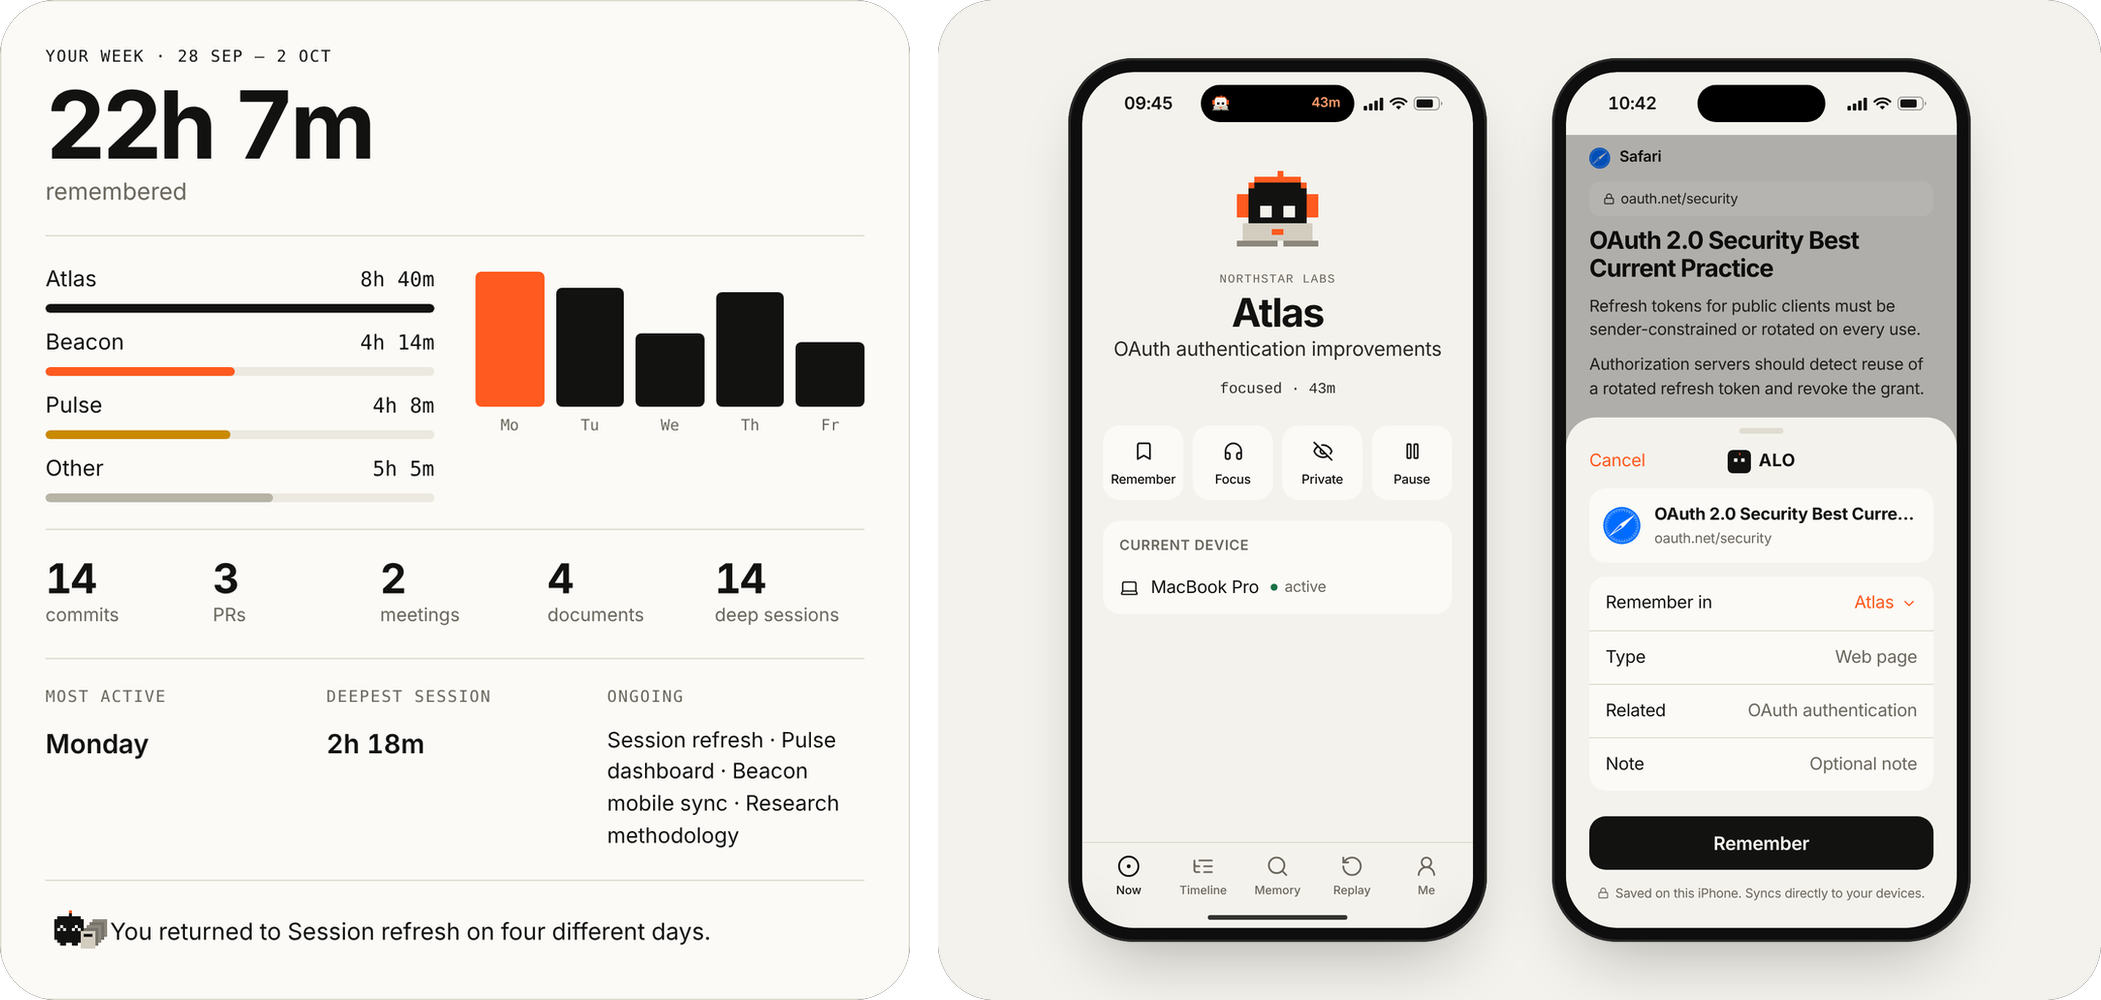
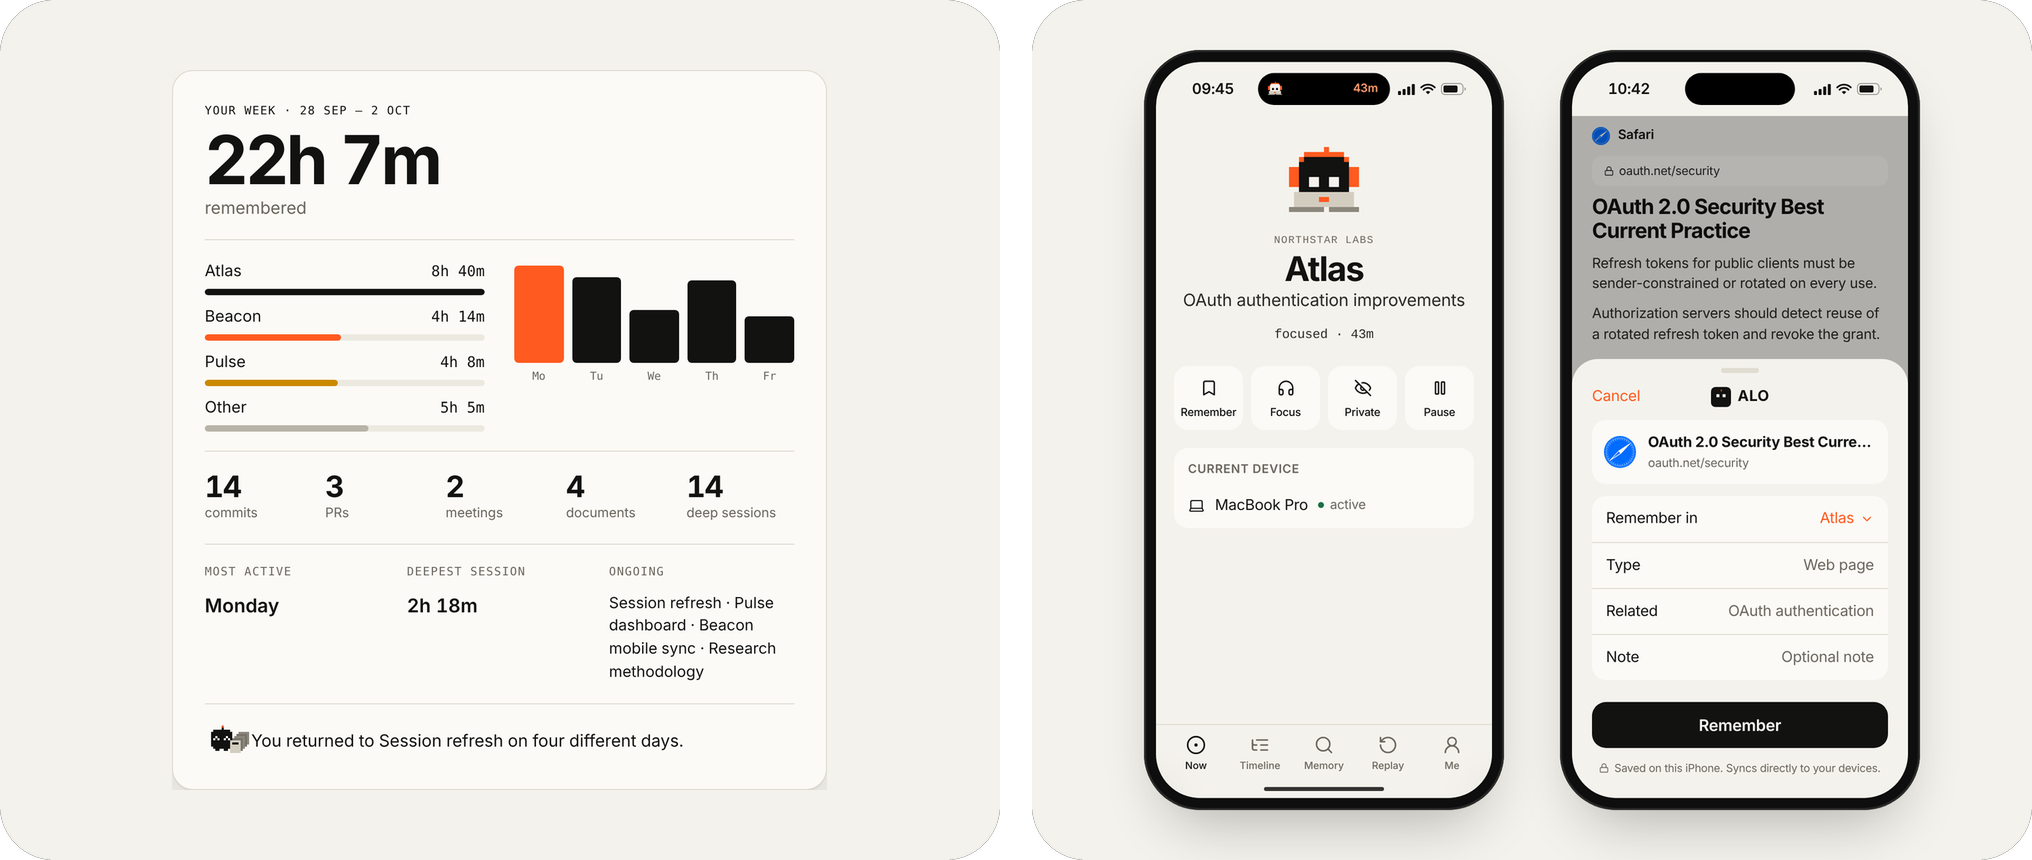
Move to al0.io and tidy the ALO in use screenshots

diff --git a/README.md b/README.md
@@ -10,7 +10,7 @@
 </p>
 
 <p align="center">
-  <a href="https://alo-ebon-two.vercel.app/">Website</a> · <a href="https://github.com/infinitumio/ALO/releases/latest">Download</a> · <a href="https://github.com/infinitumio/ALO/releases">Releases</a>
+  <a href="https://al0.io/">Website</a> · <a href="https://github.com/infinitumio/ALO/releases/latest">Download</a> · <a href="https://github.com/infinitumio/ALO/releases">Releases</a>
 </p>
 
 <br />

diff --git a/SECURITY.md b/SECURITY.md
@@ -16,8 +16,7 @@ Security fixes ship in the latest release. Please update before reporting.
 Please do not open a public issue for security problems.
 
 1. Use GitHub's private reporting: [Report a vulnerability](https://github.com/infinitumio/ALO/security/advisories/new).
-2. Or email **security@[domain]**.
-   > Placeholder: replace this address before public launch.
+2. Or email **security@al0.io**.
 
 Include:
 
